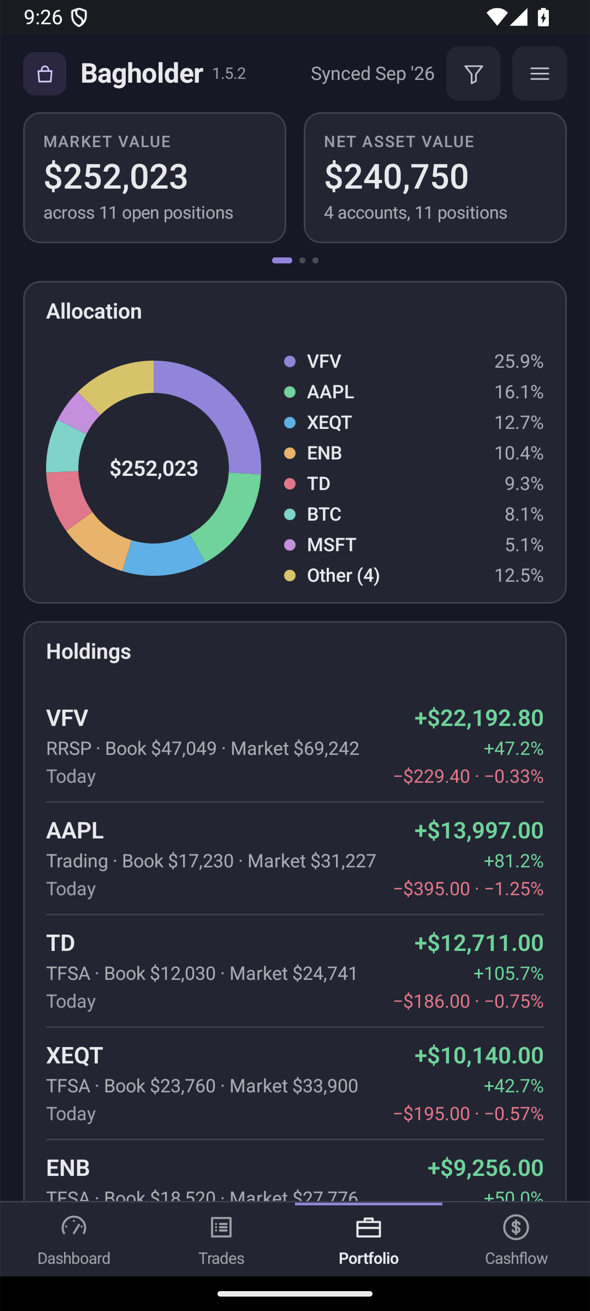
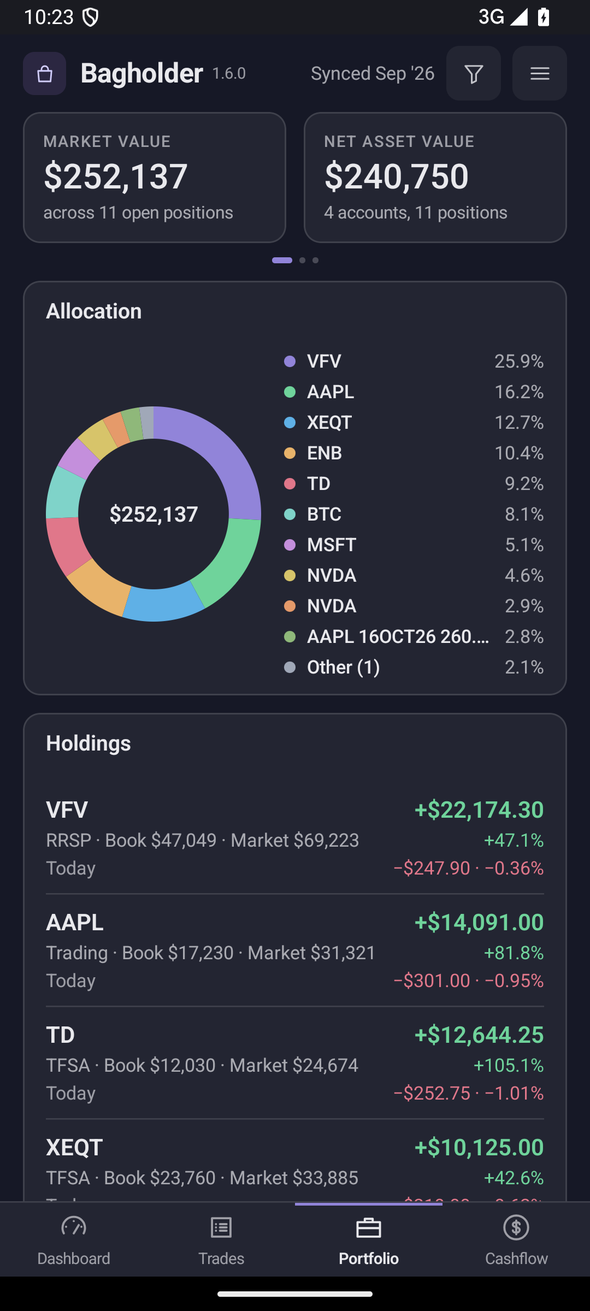
Phones: available margin from margin accounts only; version 1.6.0.
Both apps now ask Wealthsimple for buying power only for open accounts
whose type contains MARGIN and count only those rows, as the desktop
does since #77: every self-directed account answers the query with its
cash to buy with, which is not margin. Closed accounts no longer count
toward net asset value. The account rows carry the type and status for
this; older stored pulls read without them. Allocation on the phones
follows the desktop's rule (one slice each up to ten holdings, then the
ten largest and Other) with the same three added palette colours.

APP_VERSION, MARKETING_VERSION and versionName move to 1.6.0 together
for the release. SPEC §8 updated; the README phone images reshot.

diff --git a/ios/Bagholder/WSPull.swift b/ios/Bagholder/WSPull.swift
@@ -159,6 +159,23 @@ struct WSActivity: Equatable, Codable {
 struct WSAccountRow: Equatable, Codable {
     var id = "", nickname = "", currency = ""
     var netLiquidationValue: Double?
+    var unifiedAccountType = "", status = ""
+
+    init(id: String = "", nickname: String = "", currency: String = "", netLiquidationValue: Double? = nil, unifiedAccountType: String = "", status: String = "") {
+        self.id = id; self.nickname = nickname; self.currency = currency; self.netLiquidationValue = netLiquidationValue
+        self.unifiedAccountType = unifiedAccountType; self.status = status
+    }
+
+    /// A pull stored before the type and status were kept decodes without them.
+    init(from decoder: Decoder) throws {
+        let c = try decoder.container(keyedBy: CodingKeys.self)
+        id = try c.decodeIfPresent(String.self, forKey: .id) ?? ""
+        nickname = try c.decodeIfPresent(String.self, forKey: .nickname) ?? ""
+        currency = try c.decodeIfPresent(String.self, forKey: .currency) ?? ""
+        netLiquidationValue = try c.decodeIfPresent(Double.self, forKey: .netLiquidationValue)
+        unifiedAccountType = try c.decodeIfPresent(String.self, forKey: .unifiedAccountType) ?? ""
+        status = try c.decodeIfPresent(String.self, forKey: .status) ?? ""
+    }
 }
 
 struct WSBalanceRow: Equatable, Codable {
@@ -1433,8 +1450,16 @@ query FetchAccountHistoricalFinancials(
             if id.isEmpty { return nil }
             let fin = J.dict(J.dict(a["financials"])["currentCombined"])
             let (amt, _) = moneyAmount(fin, keys: ["netLiquidationValue", "netLiquidationValueV2"])
-            return WSAccountRow(id: id, nickname: J.str(a, "nickname"), currency: J.str(a, "currency"), netLiquidationValue: amt)
+            return WSAccountRow(id: id, nickname: J.str(a, "nickname"), currency: J.str(a, "currency"), netLiquidationValue: amt,
+                                unifiedAccountType: J.str(a, "unifiedAccountType"), status: J.str(a, "status"))
         }
+    }
+
+    /// bagholder.margin_account_ids: the open margin accounts, the only ones whose buying power is
+    /// margin available. Every self-directed account answers the query with the cash it could buy
+    /// with, and cash, card and crypto accounts with an error; neither is margin.
+    static func marginAccountIds(_ rows: [WSAccountRow]) -> [String] {
+        rows.filter { !$0.id.isEmpty && $0.unifiedAccountType.uppercased().contains("MARGIN") && $0.status.lowercased() != "closed" }.map(\.id)
     }
 
     private static func fetchBalances(_ box: TokenBox, accountIds: [String]) async throws -> [WSBalanceRow] {
@@ -1497,7 +1522,7 @@ query FetchAccountHistoricalFinancials(
         let rows = slimAccounts(accounts)
         let ids = rows.map(\.id)
         let balances = (try? await fetchBalances(box, accountIds: ids)) ?? []
-        return PortfolioSnapshot(accounts: rows, balances: balances, margin: await fetchMargin(box, accountIds: ids))
+        return PortfolioSnapshot(accounts: rows, balances: balances, margin: await fetchMargin(box, accountIds: marginAccountIds(rows)))
     }
 
     /// The Portfolio figures between syncs: net liquidation values, cash balances and buying power.

diff --git a/android/app/src/main/kotlin/com/bagholder/app/WSPull.kt b/android/app/src/main/kotlin/com/bagholder/app/WSPull.kt
@@ -54,9 +54,14 @@ data class WSActivity(
     }
 }
 
-data class WSAccountRow(val id: String, val nickname: String, val currency: String, val netLiquidationValue: Double?) {
+data class WSAccountRow(val id: String, val nickname: String, val currency: String, val netLiquidationValue: Double?, val unifiedAccountType: String = "", val status: String = "") {
     fun toJson(): JSONObject = JSONObject().put("id", id).put("nickname", nickname).put("currency", currency).put("netLiquidationValue", netLiquidationValue ?: JSONObject.NULL)
-    companion object { fun fromJson(o: JSONObject) = WSAccountRow(o.optString("id"), o.optString("nickname"), o.optString("currency"), if (o.isNull("netLiquidationValue")) null else o.optDouble("netLiquidationValue")) }
+        .put("unifiedAccountType", unifiedAccountType).put("status", status)
+    companion object {
+        /** A pull stored before the type and status were kept reads without them. */
+        fun fromJson(o: JSONObject) = WSAccountRow(o.optString("id"), o.optString("nickname"), o.optString("currency"), if (o.isNull("netLiquidationValue")) null else o.optDouble("netLiquidationValue"),
+            o.optString("unifiedAccountType"), o.optString("status"))
+    }
 }
 
 class WSBalanceRow(val accountId: String, val securityId: String, val quantity: Double) {
@@ -423,9 +428,15 @@ object WSPull {
         else {
             val fin = dict(dict(a.opt("financials")).opt("currentCombined"))
             val (amt, _) = moneyAmount(fin, listOf("netLiquidationValue", "netLiquidationValueV2"))
-            WSAccountRow(id, str(a, "nickname"), str(a, "currency"), amt)
+            WSAccountRow(id, str(a, "nickname"), str(a, "currency"), amt, str(a, "unifiedAccountType"), str(a, "status"))
         }
     }
+
+    /** bagholder.margin_account_ids: the open margin accounts, the only ones whose buying power is
+     *  margin available. Every self-directed account answers the query with the cash it could buy
+     *  with, and cash, card and crypto accounts with an error; neither is margin. */
+    fun marginAccountIds(rows: List<WSAccountRow>): List<String> =
+        rows.filter { it.id.isNotEmpty() && it.unifiedAccountType.uppercase().contains("MARGIN") && it.status.lowercase() != "closed" }.map { it.id }
 
     private fun fetchBalances(box: TokenBox, accountIds: List<String>): List<WSBalanceRow> {
         val out = mutableListOf<WSBalanceRow>()
@@ -484,7 +495,7 @@ object WSPull {
         val rows = slimAccounts(accounts)
         val ids = rows.map { it.id }
         val balances = try { fetchBalances(box, ids) } catch (e: Exception) { emptyList() }
-        return PortfolioSnapshot(rows, balances, fetchMargin(box, ids))
+        return PortfolioSnapshot(rows, balances, fetchMargin(box, marginAccountIds(rows)))
     }
 
     /** The Portfolio figures between syncs: net liquidation values, cash balances and buying power. */

diff --git a/android/app/src/main/kotlin/com/bagholder/app/Theme.kt b/android/app/src/main/kotlin/com/bagholder/app/Theme.kt
@@ -32,7 +32,7 @@ class BHTheme(
             ink = hex(0xe9e9ed), ink75 = hex(0xe9e9ed, 0.8f), ink60 = hex(0xe9e9ed, 0.68f), ink55 = hex(0xe9e9ed, 0.62f),
             hair = hex(0xe9e9ed, 0.14f), grid = hex(0xe9e9ed, 0.07f), pos = hex(0x6fd39b), neg = hex(0xe0778a), mixed = hex(0x7972a9),
             chipBg = hex(0x2b2741), chipFg = hex(0xd2cefd),
-            pie = listOf(hex(0x9184d9), hex(0x6fd39b), hex(0x5fb0e6), hex(0xe8b36a), hex(0xe0778a), hex(0x7fd3c9), hex(0xc48fdc), hex(0xd7c46a)),
+            pie = listOf(hex(0x9184d9), hex(0x6fd39b), hex(0x5fb0e6), hex(0xe8b36a), hex(0xe0778a), hex(0x7fd3c9), hex(0xc48fdc), hex(0xd7c46a), hex(0xe59a6a), hex(0x8fb87a), hex(0xa0a8b8)),
         )
 
         val light = BHTheme(
@@ -41,7 +41,7 @@ class BHTheme(
             ink = hex(0x1b1d27), ink75 = hex(0x1b1d27, 0.82f), ink60 = hex(0x1b1d27, 0.72f), ink55 = hex(0x1b1d27, 0.66f),
             hair = hex(0x1b1d27, 0.12f), grid = hex(0x1b1d27, 0.06f), pos = hex(0x2e8a62), neg = hex(0xc0505f), mixed = hex(0x9a95c4),
             chipBg = hex(0xe9e6fa), chipFg = hex(0x4a3bb8),
-            pie = listOf(hex(0xa89ee6), hex(0x8fd4b4), hex(0x93c4ec), hex(0xf0c98c), hex(0xeea3ae), hex(0x9adbd4), hex(0xcfaee6), hex(0xe0d48c)),
+            pie = listOf(hex(0xa89ee6), hex(0x8fd4b4), hex(0x93c4ec), hex(0xf0c98c), hex(0xeea3ae), hex(0x9adbd4), hex(0xcfaee6), hex(0xe0d48c), hex(0xf2b592), hex(0xb9d69c), hex(0xb6bec9)),
         )
     }
 }

diff --git a/android/model/src/main/kotlin/com/bagholder/model/View.kt b/android/model/src/main/kotlin/com/bagholder/model/View.kt
@@ -632,7 +632,8 @@ object ModelView {
         val fx = base.fx; val today = base.today
         fun cad(amount: Double, currency: String) = Model.toCad(fx, amount, currency, today)
         val names = f.lists["account"] ?: emptyList()
-        val accounts = base.accounts.filter { names.isEmpty() || names.contains(it.name) }
+        // closed accounts hold nothing and count for nothing here
+        val accounts = base.accounts.filter { it.status.lowercase() != "closed" && (names.isEmpty() || names.contains(it.name)) }
         val ids = accounts.map { it.id }.toSet()
         val nameOf = accounts.associate { it.id to it.name }
         val out = Portfolio()
@@ -655,8 +656,10 @@ object ModelView {
         out.marginUsedPct = if (out.marketValue != 0.0) out.marginUsed / out.marketValue else null
         val avail = mutableListOf<Double>()
         val unavailable = mutableListOf<String>()
+        // only a margin account's buying power is margin available; any other row is cash to buy with
+        val marginIds = accounts.filter { it.type.uppercase().contains("MARGIN") }.map { it.id }.toSet()
         for (m in base.margin) {
-            if (m.accountId !in ids) continue
+            if (m.accountId !in marginIds) continue
             val bp = m.buyingPower
             if (bp != null) avail.add(cad(bp, m.currency.ifEmpty { "CAD" })) else unavailable.add(nameOf[m.accountId] ?: m.accountId)
         }

diff --git a/ios/Bagholder/Theme.swift b/ios/Bagholder/Theme.swift
@@ -17,7 +17,7 @@ struct BHTheme {
         ink: hex(0xe9e9ed), ink75: hex(0xe9e9ed, 0.8), ink60: hex(0xe9e9ed, 0.68), ink55: hex(0xe9e9ed, 0.62),
         hair: hex(0xe9e9ed, 0.14), grid: hex(0xe9e9ed, 0.07), pos: hex(0x6fd39b), neg: hex(0xe0778a), mixed: hex(0x7972a9),
         chipBg: hex(0x2b2741), chipFg: hex(0xd2cefd),
-        pie: [hex(0x9184d9), hex(0x6fd39b), hex(0x5fb0e6), hex(0xe8b36a), hex(0xe0778a), hex(0x7fd3c9), hex(0xc48fdc), hex(0xd7c46a)]
+        pie: [hex(0x9184d9), hex(0x6fd39b), hex(0x5fb0e6), hex(0xe8b36a), hex(0xe0778a), hex(0x7fd3c9), hex(0xc48fdc), hex(0xd7c46a), hex(0xe59a6a), hex(0x8fb87a), hex(0xa0a8b8)]
     )
 
     static let light = BHTheme(
@@ -26,7 +26,7 @@ struct BHTheme {
         ink: hex(0x1b1d27), ink75: hex(0x1b1d27, 0.82), ink60: hex(0x1b1d27, 0.72), ink55: hex(0x1b1d27, 0.66),
         hair: hex(0x1b1d27, 0.12), grid: hex(0x1b1d27, 0.06), pos: hex(0x2e8a62), neg: hex(0xc0505f), mixed: hex(0x9a95c4),
         chipBg: hex(0xe9e6fa), chipFg: hex(0x4a3bb8),
-        pie: [hex(0xa89ee6), hex(0x8fd4b4), hex(0x93c4ec), hex(0xf0c98c), hex(0xeea3ae), hex(0x9adbd4), hex(0xcfaee6), hex(0xe0d48c)]
+        pie: [hex(0xa89ee6), hex(0x8fd4b4), hex(0x93c4ec), hex(0xf0c98c), hex(0xeea3ae), hex(0x9adbd4), hex(0xcfaee6), hex(0xe0d48c), hex(0xf2b592), hex(0xb9d69c), hex(0xb6bec9)]
     )
 
     func signed(_ v: Double) -> Color { v > 0.0001 ? pos : (v < -0.0001 ? neg : ink) }

diff --git a/ios/Bagholder/ModelView.swift b/ios/Bagholder/ModelView.swift
@@ -770,7 +770,8 @@ extension BHModel {
         let fx = base.fx, today = base.today
         func cad(_ amount: Double, _ currency: String) -> Double { toCad(fx, amount, currency, today) }
         let names = f.lists["account"] ?? []
-        let accounts = base.accounts.filter { names.isEmpty || names.contains($0.name) }
+        // closed accounts hold nothing and count for nothing here
+        let accounts = base.accounts.filter { $0.status.lowercased() != "closed" && (names.isEmpty || names.contains($0.name)) }
         let ids = Set(accounts.map { $0.id })
         var nameOf: [String: String] = [:]
         for a in accounts { nameOf[a.id] = a.name }
@@ -794,7 +795,9 @@ extension BHModel {
         out.marginUsedPct = out.marketValue != 0 ? out.marginUsed / out.marketValue : nil
         var avail: [Double] = []
         var unavailable: [String] = []
-        for m in base.margin where ids.contains(m.accountId) {
+        // only a margin account's buying power is margin available; any other row is cash to buy with
+        let marginIds = Set(accounts.filter { $0.type.uppercased().contains("MARGIN") }.map { $0.id })
+        for m in base.margin where marginIds.contains(m.accountId) {
             if let bp = m.buyingPower { avail.append(cad(bp, m.currency.isEmpty ? "CAD" : m.currency)) }
             else { unavailable.append(nameOf[m.accountId] ?? m.accountId) }
         }

diff --git a/ios/Bagholder/AppState.swift b/ios/Bagholder/AppState.swift
@@ -432,7 +432,7 @@ final class Book: ObservableObject {
             let nav = snap.nav.map { BHNavPoint(date: $0.date, equity: $0.equity, netDeposits: $0.netDeposits) }
             var navBy: [String: [BHNavPoint]] = [:]
             for (nick, pts) in snap.navByAccount { navBy[nick] = pts.map { BHNavPoint(date: $0.date, equity: $0.equity, netDeposits: $0.netDeposits) } }
-            let accounts = (snap.accounts ?? []).map { BHAccountInfo(id: $0.id, name: $0.nickname, currency: $0.currency, nav: $0.netLiquidationValue) }
+            let accounts = (snap.accounts ?? []).map { BHAccountInfo(id: $0.id, name: $0.nickname, currency: $0.currency, nav: $0.netLiquidationValue, type: $0.unifiedAccountType, status: $0.status) }
             let balances = (snap.balances ?? []).map { BHBalanceRow(accountId: $0.accountId, securityId: $0.securityId, quantity: $0.quantity) }
             let margin = (snap.margin ?? []).map { BHMarginRow(accountId: $0.accountId, buyingPower: $0.buyingPower, currency: $0.currency, unavailable: $0.unavailable) }
             let b = BHModel.buildBase(activities: snap.activities.map(BHAct.init), securities: snap.listings.map(WSPull.security), market: market,

diff --git a/android/model/src/main/kotlin/com/bagholder/model/Model.kt b/android/model/src/main/kotlin/com/bagholder/model/Model.kt
@@ -147,7 +147,7 @@ class Position {
 }
 
 /** What Wealthsimple states per account: its net liquidation value, in its currency. */
-class AccountInfo(val id: String, val name: String, val currency: String, val nav: Double?)
+class AccountInfo(val id: String, val name: String, val currency: String, val nav: Double?, val type: String = "", val status: String = "")
 
 class BalanceRow(val accountId: String, val securityId: String, val quantity: Double)
 
@@ -1631,7 +1631,7 @@ object Model {
         base.trades = buildTrades(fifo.closed, actsById, securities, journal)
         base.positions = buildPositions(fifo.open, lastFillPrices(acts), securities, today, market.quotes, journal, actsById)
         base.cashflow = buildCashflow(acts, securities, market.fx)
-        base.accounts = accounts.map { AccountInfo(it.id, normAccountName(it.name), it.currency, it.nav) }
+        base.accounts = accounts.map { AccountInfo(it.id, normAccountName(it.name), it.currency, it.nav, it.type, it.status) }
         base.balances = balances
         base.margin = margin
         base.cashCurrencies = securities.cashCurrencies()

diff --git a/android/model/src/test/kotlin/com/bagholder/model/ModelCasesTest.kt b/android/model/src/test/kotlin/com/bagholder/model/ModelCasesTest.kt
@@ -217,7 +217,7 @@ class ModelCasesTest {
                 }
             }
             val accRows = snapshot.optJSONArray("accounts") ?: JSONArray()
-            val accounts = (0 until accRows.length()).map { i -> val a = accRows.getJSONObject(i); AccountInfo(a.optString("id"), a.optString("nickname"), a.optString("currency"), if (a.isNull("netLiquidationValue")) null else a.optDouble("netLiquidationValue")) }
+            val accounts = (0 until accRows.length()).map { i -> val a = accRows.getJSONObject(i); AccountInfo(a.optString("id"), a.optString("nickname"), a.optString("currency"), if (a.isNull("netLiquidationValue")) null else a.optDouble("netLiquidationValue"), a.optString("unifiedAccountType"), a.optString("status")) }
             val balRows = snapshot.optJSONArray("balances") ?: JSONArray()
             val balances = (0 until balRows.length()).map { i -> val b = balRows.getJSONObject(i); BalanceRow(b.optString("accountId"), b.optString("securityId"), b.optDouble("quantity", 0.0)) }
             val marginRows = snapshot.optJSONArray("margin") ?: JSONArray()

diff --git a/ios/Bagholder/Model.swift b/ios/Bagholder/Model.swift
@@ -166,6 +166,7 @@ struct BHPosition {
 struct BHAccountInfo {
     var id = "", name = "", currency = ""
     var nav: Double?
+    var type = "", status = ""
 }
 
 struct BHBalanceRow {
@@ -1943,7 +1944,7 @@ enum BHModel {
         base.trades = buildTrades(fifo.closed, actsById: actsById, securities: securities, journal: journal)
         base.positions = buildPositions(fifo.open, lastPrices: lastFillPrices(acts), securities: securities, today: today, quotes: market.quotes, journal: journal, actsById: actsById)
         base.cashflow = buildCashflow(acts, securities: securities, fx: market.fx)
-        base.accounts = accounts.map { a in BHAccountInfo(id: a.id, name: normAccountName(a.name), currency: a.currency, nav: a.nav) }
+        base.accounts = accounts.map { a in BHAccountInfo(id: a.id, name: normAccountName(a.name), currency: a.currency, nav: a.nav, type: a.type, status: a.status) }
         base.balances = balances
         base.margin = margin
         base.cashCurrencies = securities.cashCurrencies()

diff --git a/android/app/src/main/kotlin/com/bagholder/app/Journal.kt b/android/app/src/main/kotlin/com/bagholder/app/Journal.kt
@@ -251,7 +251,7 @@ object Book {
         val market = Market(fx = Store.loadFx(), distributions = MarketData.distributions(), quotes = quotes, benchmark = sp, benchmarks = benchmarks)
         val nav = p.nav.map { NavPoint(it.date, it.equity, it.netDeposits) }
         val navBy = p.navByAccount.mapValues { e -> e.value.map { NavPoint(it.date, it.equity, it.netDeposits) } }
-        val accounts = p.accounts.map { AccountInfo(it.id, it.nickname, it.currency, it.netLiquidationValue) }
+        val accounts = p.accounts.map { AccountInfo(it.id, it.nickname, it.currency, it.netLiquidationValue, it.unifiedAccountType, it.status) }
         val balances = p.balances.map { BalanceRow(it.accountId, it.securityId, it.quantity) }
         val margin = p.margin.map { MarginRow(it.accountId, it.buyingPower, it.currency, it.unavailable) }
         val b = Model.buildBase(p.activities.map { it.toAct() }, securities, market, Model.todayLocal(), nav, navBy, journal, accounts, balances, margin)

diff --git a/ios/BagholderTests/ModelCasesTests.swift b/ios/BagholderTests/ModelCasesTests.swift
@@ -208,7 +208,8 @@ final class ModelCasesTests: XCTestCase {
                 navByAccount[nick] = ((pts as? [[String: Any]]) ?? []).map(navPoint)
             }
             let accounts = ((snapshot["accounts"] as? [[String: Any]]) ?? []).map { a in
-                BHAccountInfo(id: str(a, "id"), name: str(a, "nickname"), currency: str(a, "currency"), nav: numOpt(a, "netLiquidationValue"))
+                BHAccountInfo(id: str(a, "id"), name: str(a, "nickname"), currency: str(a, "currency"), nav: numOpt(a, "netLiquidationValue"),
+                              type: str(a, "unifiedAccountType"), status: str(a, "status"))
             }
             let balances = ((snapshot["balances"] as? [[String: Any]]) ?? []).map { b in
                 BHBalanceRow(accountId: str(b, "accountId"), securityId: str(b, "securityId"), quantity: num(b, "quantity"))
